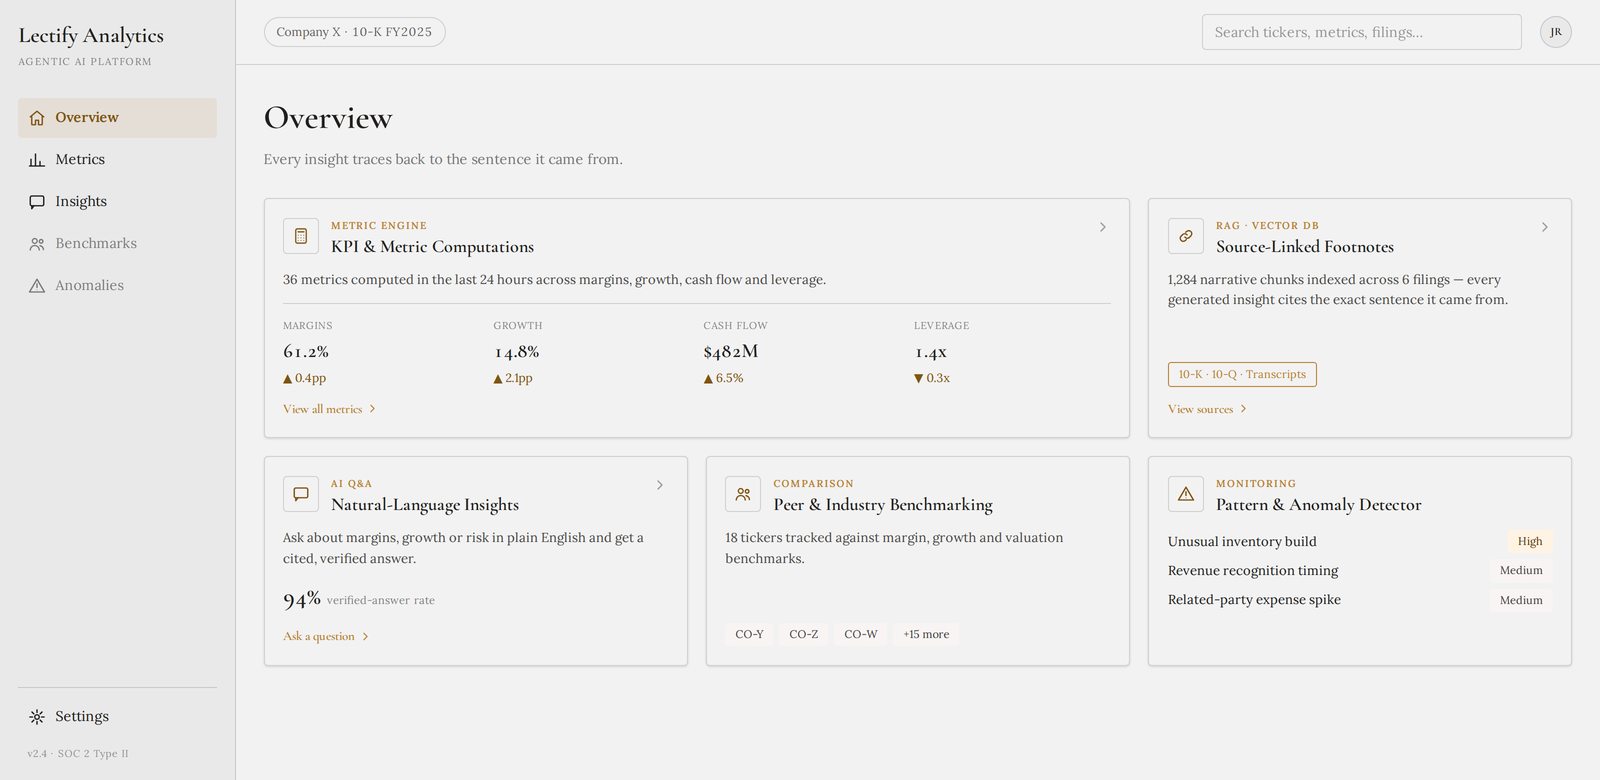
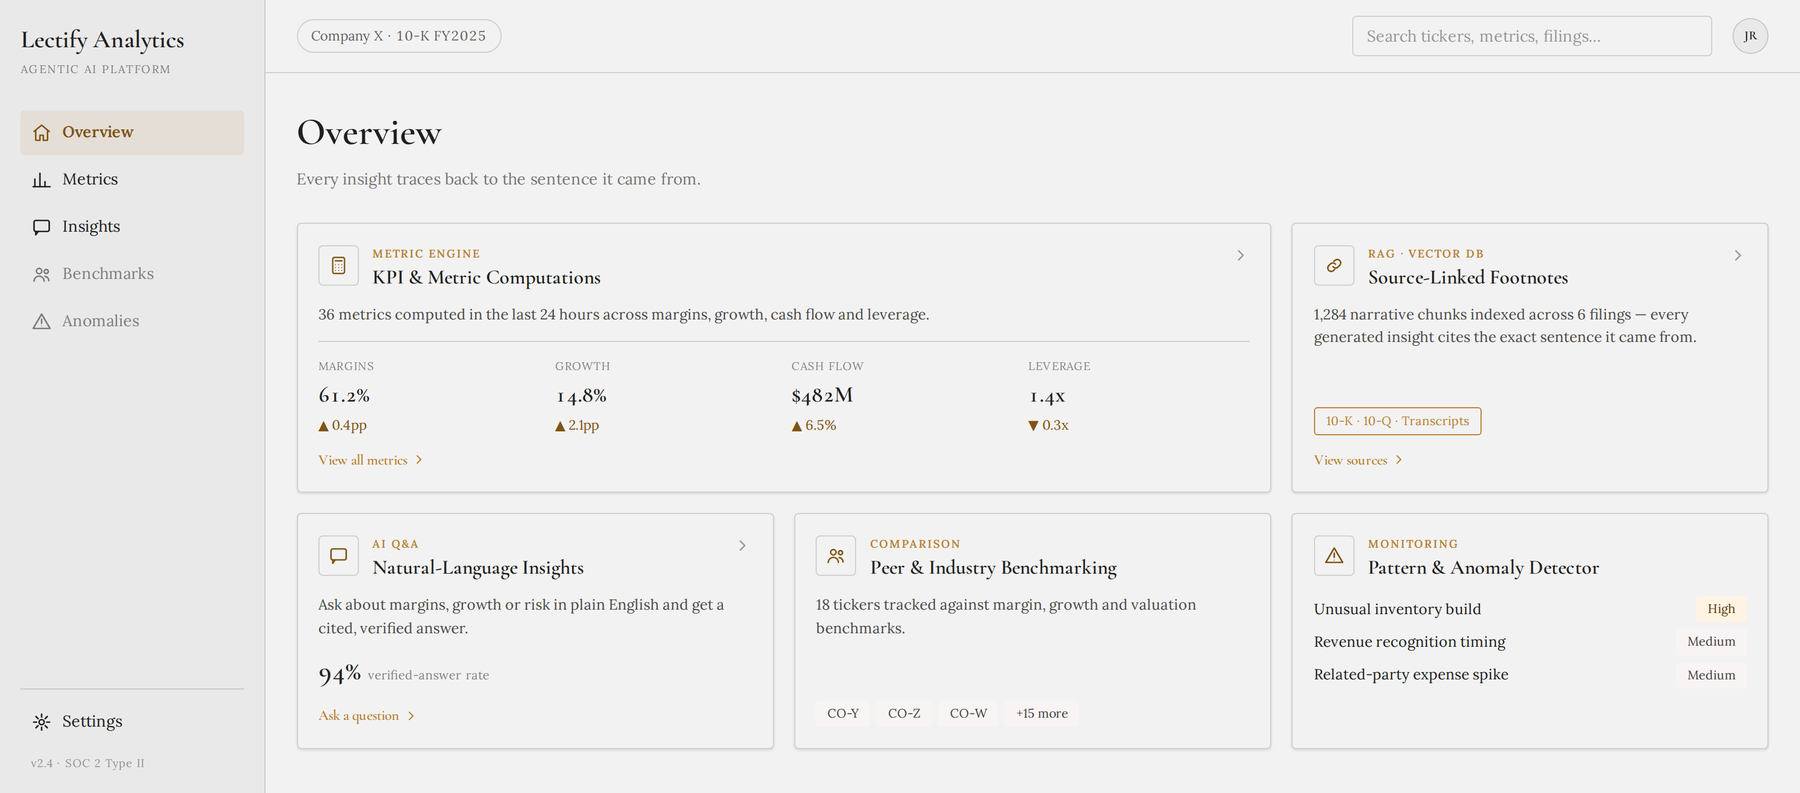
Tighten hero screenshot crop and give it more presence
The workspace overview screenshot had ~110px of dead page space below
the card grid (the sidebar's full-height layout was taller than the
actual content), making it look sparse next to the tightly-cropped
mockups everywhere else. Recaptured with a shorter viewport cropped
just past the card grid's real bottom edge, and bumped its display
size from 800 to 900px so it reads more clearly as the lead image.

Claude-Session: https://claude.ai/code/session_01GtiFavwzY1NuJLn7EaTPWN

diff --git a/docs/features.md b/docs/features.md
@@ -8,7 +8,7 @@ A plain-language look at what you can do with Lectify Analytics today, and what 
 
 Everything below lives inside a single workspace: select a company once, and every view — computed metrics, source-linked narrative citations, natural-language Q&A, peer benchmarking, anomaly detection — stays scoped to that company. The overview screen gives you all of it at a glance the moment you land, before you've asked a single question.
 
-<img src="screenshots/business-workspace.png" alt="Business workspace overview screen" width="800">
+<img src="screenshots/business-workspace.png" alt="Business workspace overview screen" width="900">
 
 *Example: metrics, citations, Q&A, benchmarking, and anomaly detection, all for the selected company.*
 

diff --git a/README.md b/README.md
@@ -48,7 +48,7 @@ In short: the reasoning happens like a chatbot, but nothing reaches the user's s
 
 ## See it in action
 
-<img src="docs/screenshots/business-workspace.png" alt="Business workspace overview screen" width="800">
+<img src="docs/screenshots/business-workspace.png" alt="Business workspace overview screen" width="900">
 
 *The workspace overview for a selected company — computed metrics, source-linked citations, natural-language Q&A, peer benchmarking, and anomaly detection in one view*
 
